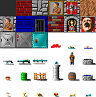
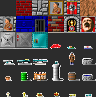
Persistencia por defecto

diff --git a/Editor/project/src/Map.cpp b/Editor/project/src/Map.cpp
@@ -20,8 +20,10 @@ void Map::renderSelected(){
 void Map::renderMap(){
 	for (std::vector<Tile>::iterator it = tileSet.begin() ; it != tileSet.end(); ++it){		    					
 		SDL_Rect clip = opt.at((*it).getType()).getBox();
-		mapHandler.setSrc(clip.x,clip.y,clip.h,clip.w);
-		mapHandler.render((*it).getX(), (*it).getY(), TILE_SIZE, TILE_SIZE);						
+		//if(checkCollision(camera, clip)){
+			mapHandler.setSrc(clip.x,clip.y,clip.h,clip.w);
+			mapHandler.render((*it).getX(), (*it).getY(), TILE_SIZE, TILE_SIZE);						
+		//}
 	}
 }	
 
@@ -37,7 +39,7 @@ void Map::load(){
 	for (int fil = 0; fil < rows; ++fil){
 		for (int col = 0; col < columns; ++col){
 			int type = map[fil][col];
-			Tile tile = Tile(TILE_SIZE*col+x,TILE_SIZE*fil+y,type);						
+			Tile tile = Tile(TILE_SIZE*col+x,TILE_SIZE*fil+y,type,fil,col);						
 			tileSet.push_back(tile);
 		}
 	}	
@@ -93,7 +95,7 @@ void Map::load_objectTiles(){
 				type = typeKey;
 				typeKey++;
 			}
-			Tile tile = Tile(TILE_SIZE*col,TILE_SIZE*fil,type);				
+			Tile tile = Tile(TILE_SIZE*col,TILE_SIZE*fil,type,fil,col);				
 			opt.insert({ type, tile });				
 			element++;
 		}
@@ -127,18 +129,27 @@ void Map::pollEvent(SDL_Event &evento){
 			changeSelected();
 			putTileMap();
 		}
+	}if ((evento.type == SDL_QUIT)|| 
+		(evento.type == SDL_KEYDOWN && evento.key.keysym.sym == SDLK_ESCAPE)){			
+				updateModel();
 	}
-	updateModel();
+}
+
+int Map::getTypebyFilCol(int _fil, int _col){
+	for (std::vector<Tile>::iterator it = tileSet.begin() ; it != tileSet.end(); ++it){		    					
+		if((*it).existbyFilCol(_fil,_col)){
+			return (*it).getType();
+		}
+	}
+	return 0;
 }
 
 void Map::updateModel(){
-	/*for (int fil = rows; fil < rows; ++fil){
+	for (int fil = 0; fil < rows; ++fil){
 		for (int col = 0; col < columns; ++col){
-			int type = map[fil][col];
-			Tile tile = Tile(TILE_SIZE*col+x,TILE_SIZE*fil+y,type);						
-			tileSet.push_back(tile);
+			map[fil][col] = getTypebyFilCol(fil,col);
 		}
-	}*/
+	}
 }
 
 void Map::initText(){	
@@ -216,6 +227,9 @@ bool Map::checkCollision( SDL_Rect a, SDL_Rect b ){
         return false;
     }    
     return true;
+}
+std::vector<std::vector<int>> Map::getMap() const{
+	return map;
 }
 
 Map::~Map(){}

diff --git a/Editor/project/src/Tile.cpp b/Editor/project/src/Tile.cpp
@@ -2,12 +2,21 @@
 
 Tile::Tile(){}
 
-Tile::Tile(int _x, int _y,int _type){
+Tile::Tile(int _x, int _y,int _type,int _fil, int _col){
     mBox.x = _x;
     mBox.y = _y;    
     mBox.w = TILE_SIZE;
     mBox.h = TILE_SIZE;    
     type = _type;    
+    fil = _fil;
+    col = _col;
+}
+
+bool Tile::existbyFilCol(int _fil,int _col) const{
+    if((fil == _fil) && (col == _col)){
+        return true;
+    }
+    return false;
 }
 
 bool Tile::existPosition(int x, int y,int offsetX,int offsety) const{
@@ -32,6 +41,13 @@ int Tile::getY() const{
 
 int Tile::getType() const{
     return type;    
+}
+int Tile::getcol() const{
+    return col;    
+}
+
+int Tile::getfil() const{
+    return fil;
 }
 
 void Tile::setType(int _type){

diff --git a/Editor/project/src/Game.cpp b/Editor/project/src/Game.cpp
@@ -33,6 +33,7 @@ void Game::initialize(){
 	}
 
 	SDL_RenderSetLogicalSize(renderer, largo, alto);
+	
 
 	main.setRenderer(renderer);
 }
@@ -41,16 +42,16 @@ void Game::exitPollEvent(SDL_Event &evento){
 	if ((evento.type == SDL_QUIT)|| 
 		(evento.type == SDL_KEYDOWN && evento.key.keysym.sym == SDLK_ESCAPE)){
 		gameOver = true;
-		sett.saveChanges();
+		sett.saveChanges(map.getMap());
 	}
 }
 
 void Game::update(){
     SDL_Event evento;
 
-	if (SDL_PollEvent(&evento)){
-		exitPollEvent(evento);
+	if (SDL_PollEvent(&evento)){		
 		map.pollEvent(evento);
+		exitPollEvent(evento);
 	}	
 }
 

diff --git a/Editor/project/src/Map.h b/Editor/project/src/Map.h
@@ -19,6 +19,7 @@ enum class Elements { wall = 11, door = 14, heal = 17, weapon =20, ammo = 21, en
 
 class Map{
 	private:
+	SDL_Point clickOffset;
 	int x = 15;
 	int y = 70;
 	int xRelative, yRelative;        		
@@ -52,10 +53,12 @@ class Map{
 	void updateClick();
 	bool checkCollision( SDL_Rect a, SDL_Rect b );
 	void updateModel();
+	int getTypebyFilCol(int _fil, int _col);
 public:
 	Map();	
     void pollEvent(SDL_Event &evento);    
 	void init(Settings &set, SDL_Renderer* renderer);
+	std::vector<std::vector<int>> getMap() const;
 	void render();
 	void update();	
 	~Map();

diff --git a/Editor/project/src/Tile.h b/Editor/project/src/Tile.h
@@ -12,14 +12,19 @@ class Tile{
 private:        
 	SDL_Rect mBox;
     int type;
+    int fil;
+    int col;
 public:
     Tile();
-    Tile(int,int,int);
+    Tile(int,int,int,int,int);
     int getX() const;
     int getY() const;
+    int getfil() const;
+    int getcol() const;
     int getType() const;
     void setType(int);
     bool existPosition(int,int,int,int) const;
+    bool existbyFilCol(int,int) const;
     SDL_Rect getBox() const;
     void init();
     ~Tile();

diff --git a/Editor/project/src/Settings.cpp b/Editor/project/src/Settings.cpp
@@ -18,9 +18,10 @@ void Settings::init(char* _filename){
     map = config["map"].as<std::vector<std::vector<int>>>();    
 }
 
-void Settings::saveChanges(){
+void Settings::saveChanges(std::vector<std::vector<int>> _map){
     std::ofstream fout(filename);
-    config["map"] = map; 
+    std::cout<<"aqui"<<_map[0][0];
+    config["map"] = _map; 
     fout << config;
 }
 

diff --git a/Editor/project/src/SDLHandler.cpp b/Editor/project/src/SDLHandler.cpp
@@ -27,7 +27,7 @@ void SDLHandler::getTexture(){
         throw std::exception(); 
     }
 
-    auto color = SDL_MapRGB(surface->format, 152, 0, 136);
+    auto color = SDL_MapRGB(surface->format, 255, 255, 255);
     SDL_SetColorKey(surface, SDL_TRUE, color);
 
     textura = SDL_CreateTextureFromSurface(rendererWin, surface);

diff --git a/Editor/project/src/Settings.h b/Editor/project/src/Settings.h
@@ -21,7 +21,7 @@ public:
     Settings();
     void init(char* _filename);
     void close();
-    void saveChanges();
+    void saveChanges(std::vector<std::vector<int>>map);
     int getresW() const;    
     int getresH() const;    
     int getminplayers() const;    

diff --git a/Editor/project/src/Menu.h b/Editor/project/src/Menu.h
@@ -21,8 +21,8 @@ class Menu{
 private:
     int largo = 320;
     int alto = 240;
-    int winLargo = 640;
-	int winAlto = 480;
+    int winLargo = 800;
+	int winAlto = 600;
 	int posSelectMain = MAIN_CREATE;
 	int posSelectOpt = OPT_RES;
 	bool hasEnterGame = false;
